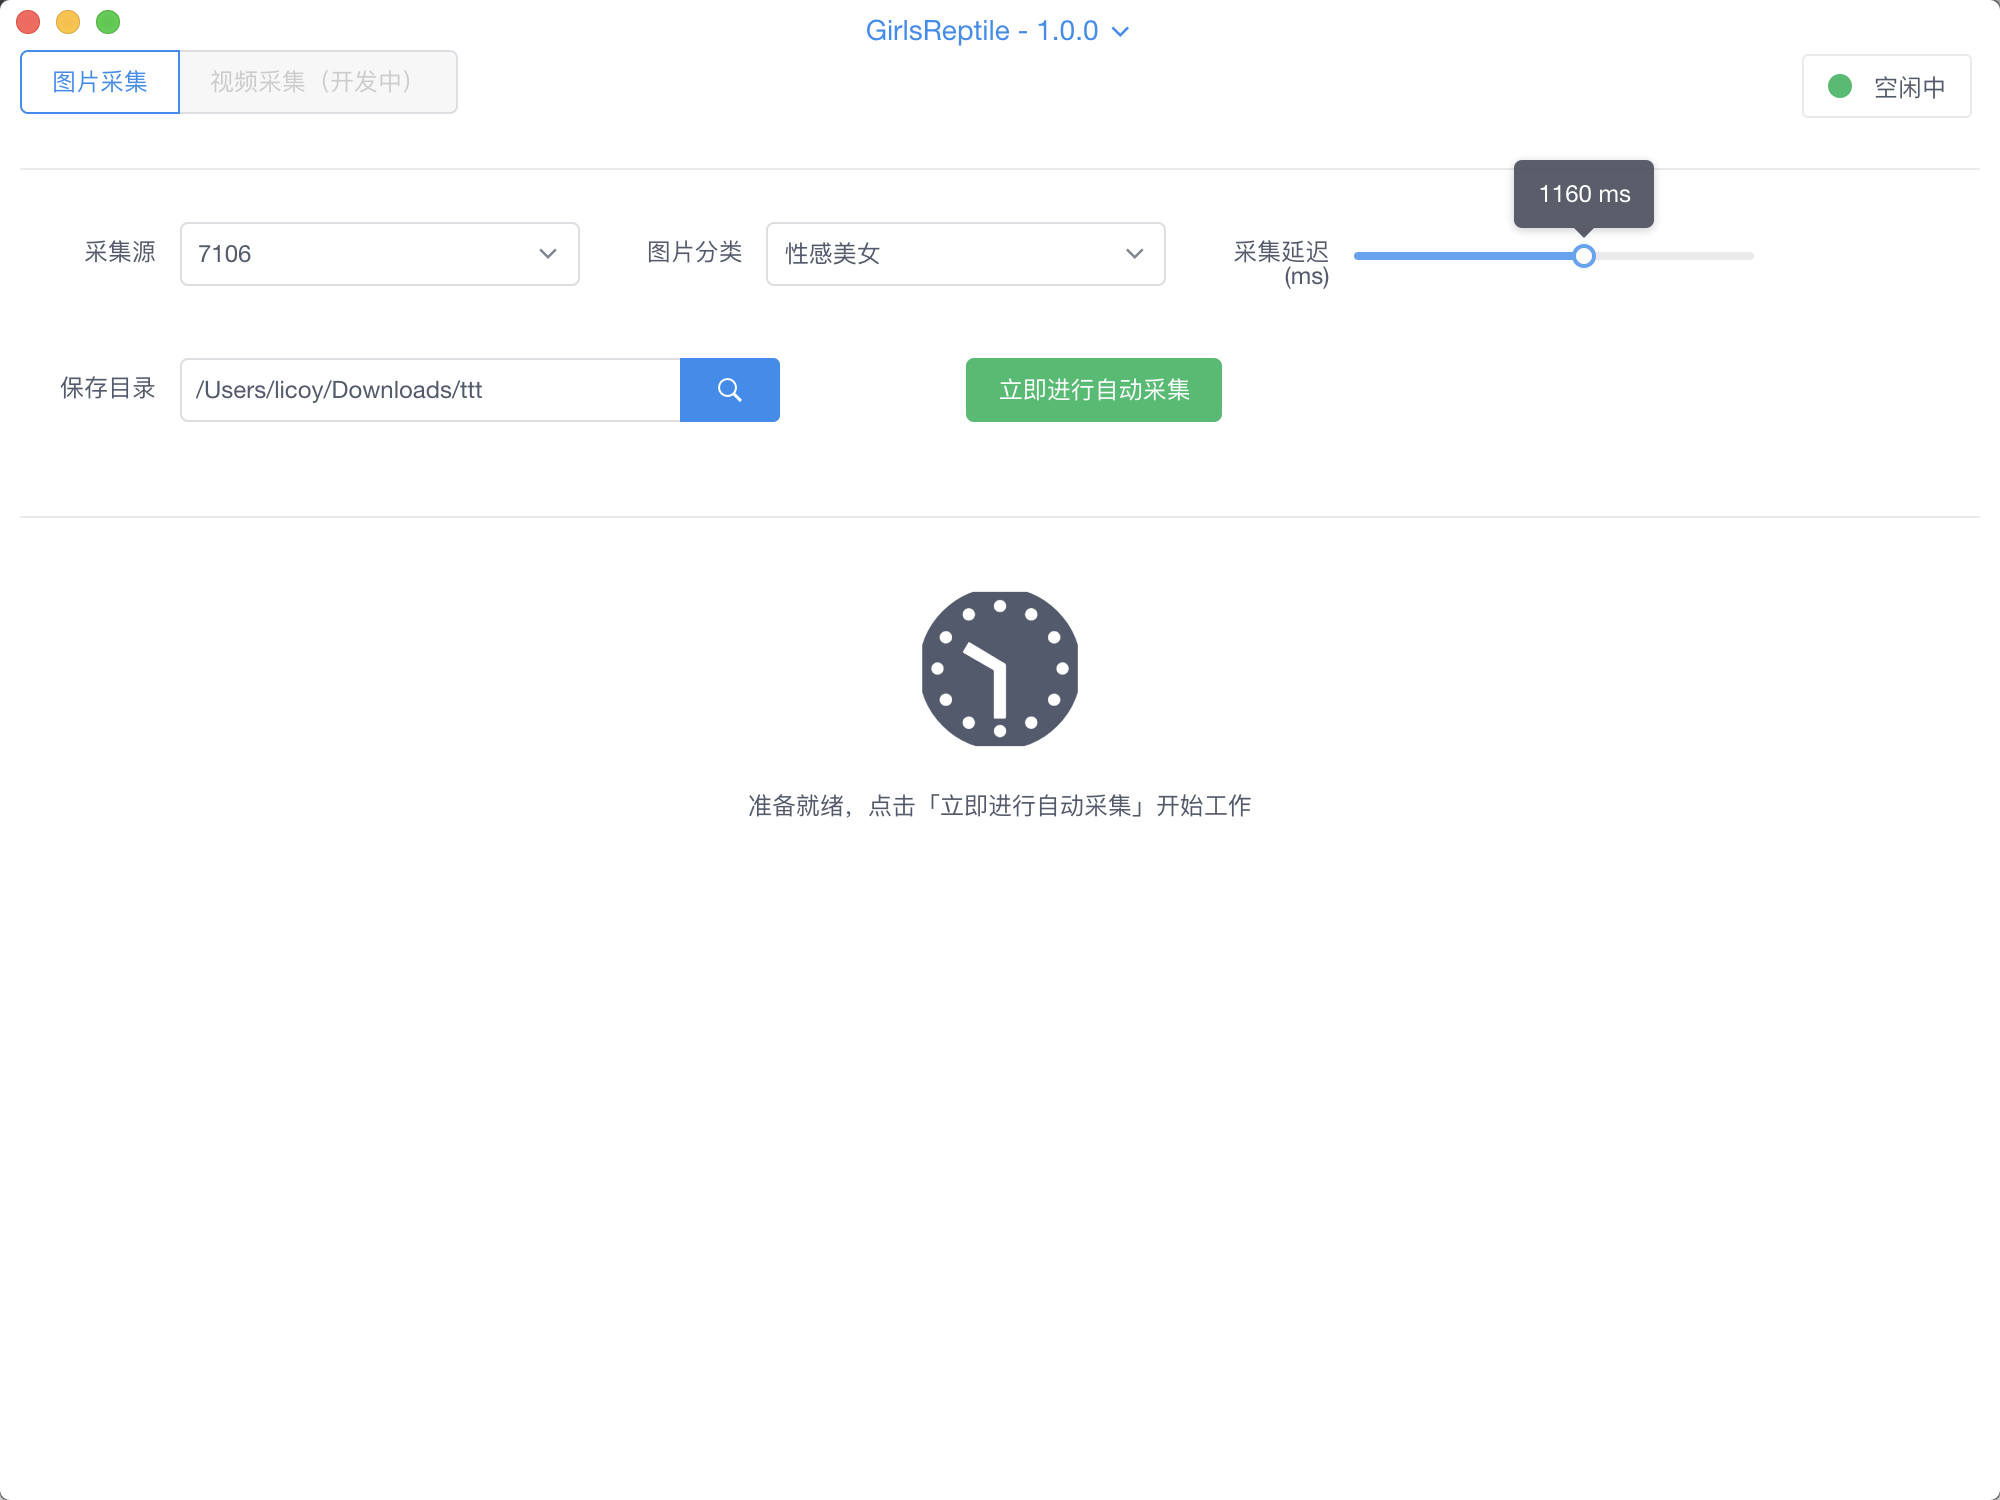
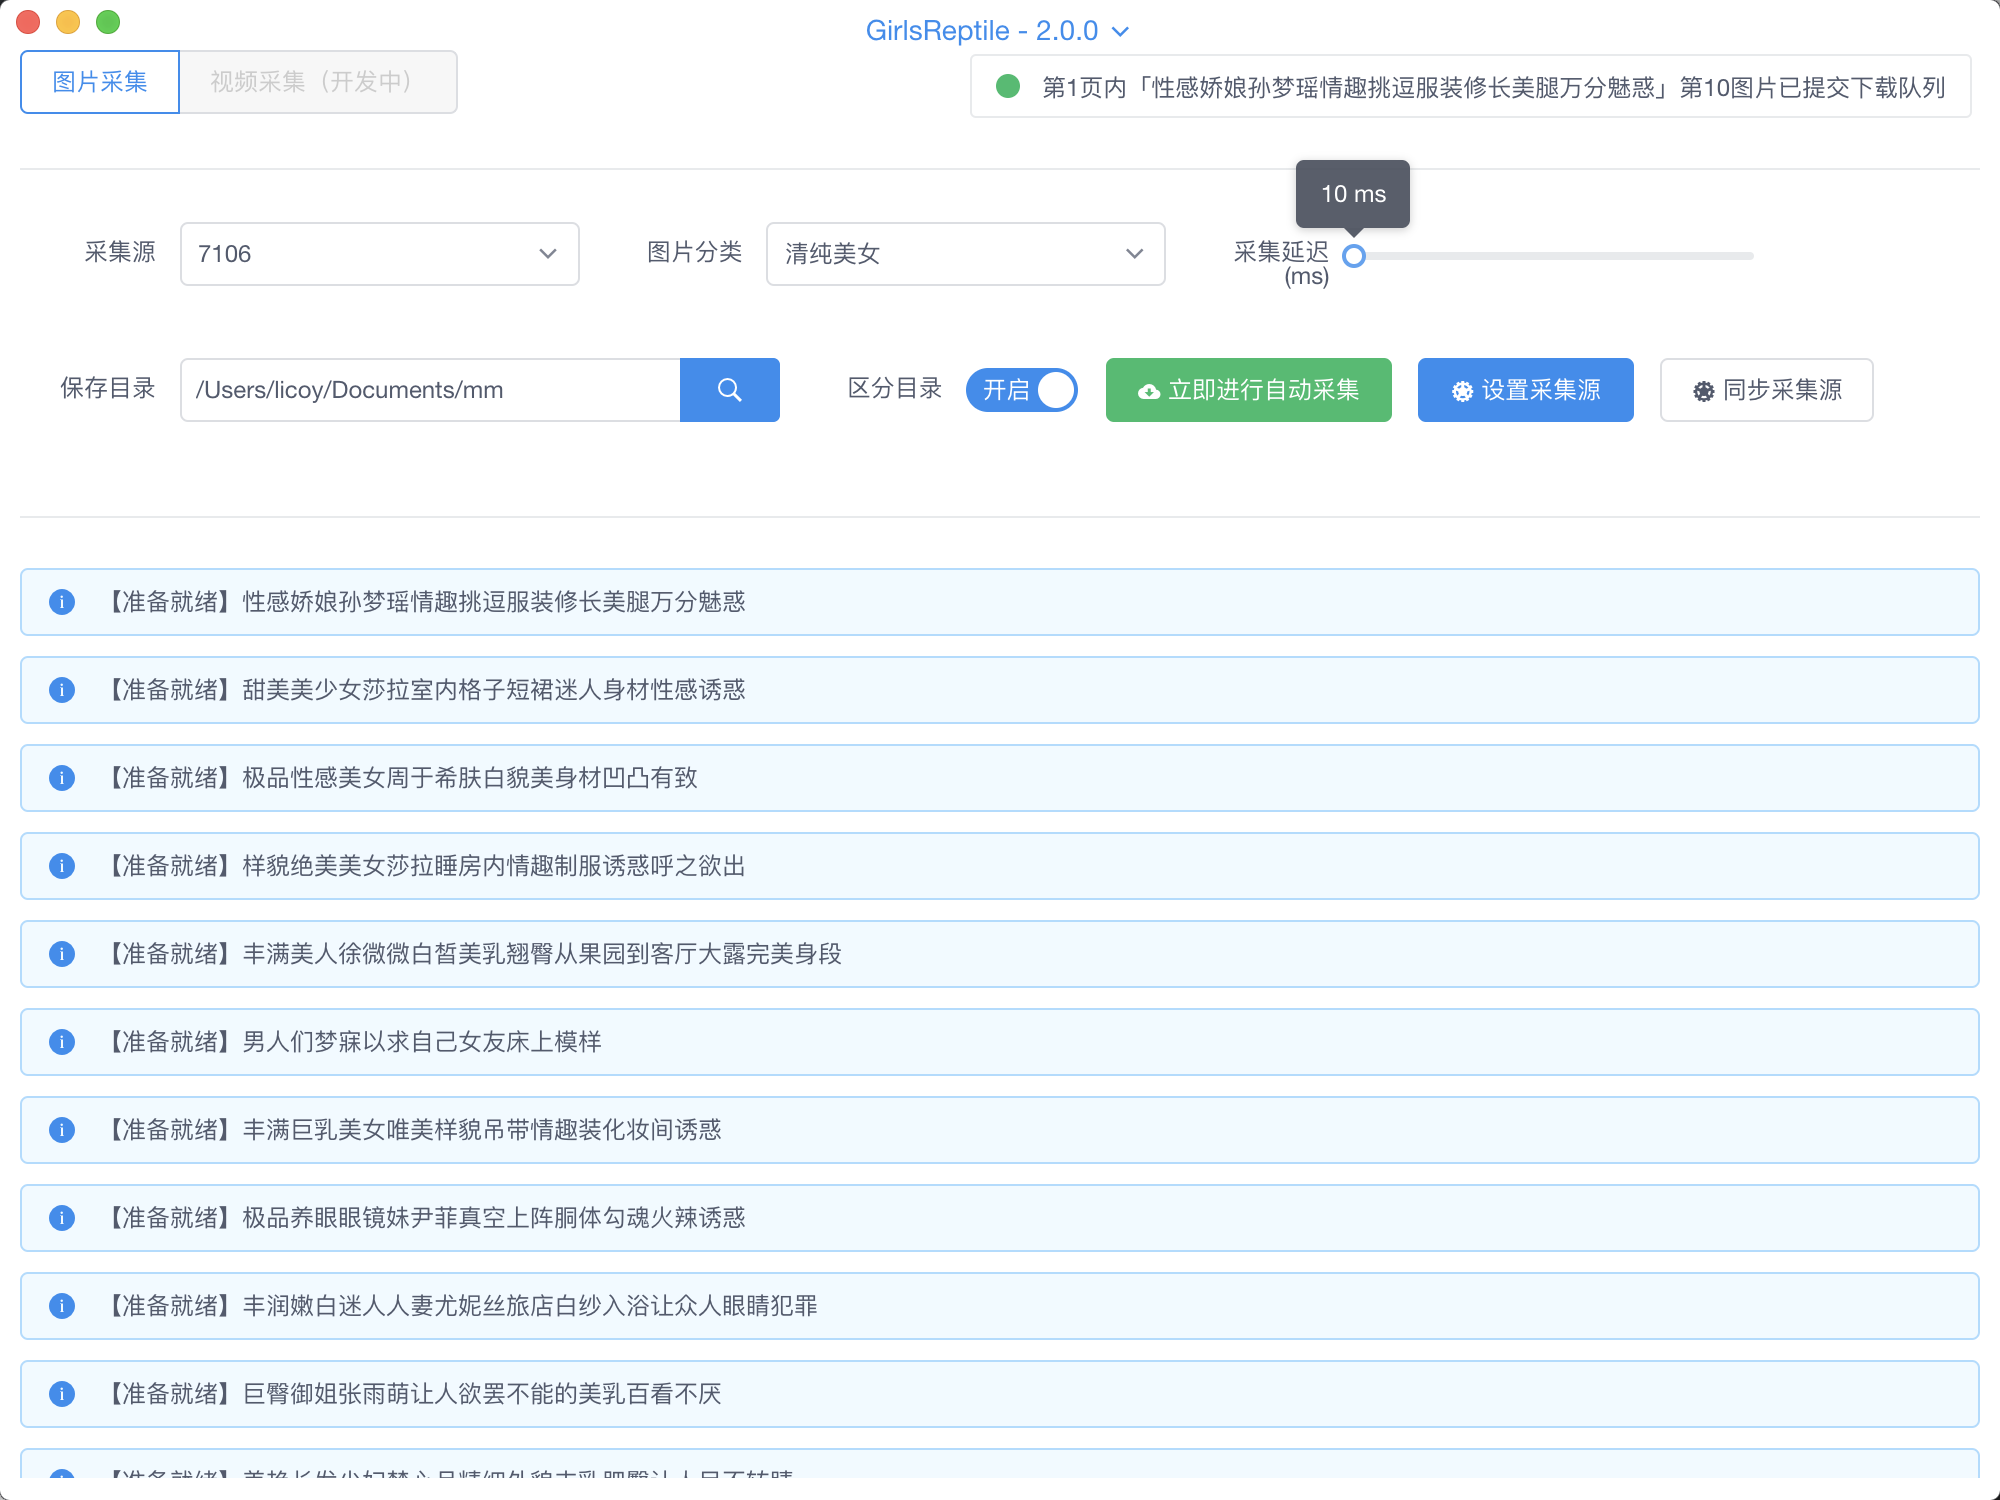
:pencil: 更新至2.0的说明

diff --git a/README_EN.md b/README_EN.md
@@ -2,7 +2,7 @@
 <div align="center">
     <img src="https://github.com/Licoy/girls-reptile/blob/master/build/icons/256x256.png?raw=true" alt="">
     <h1>GirlsReptile</h1>
-    <p>Beautiful girl picture collector based on electron-vue development</p>
+    <p>Based on electron-vue development, the Mito searcher supports custom acquisition source station configuration and is compatible with MacOS and Windows operating systems.</p>
       <a href="https://travis-ci.org/Licoy/girls-reptile/builds">
         <img src="https://img.shields.io/travis/Licoy/girls-reptile?style=flat-square" alt="">
       </a>
@@ -27,17 +27,19 @@
 </div>
 
 ## Application introduction
-GirlsReptile is a beautiful girl picture collector based on electron-vue
+GirlsReptile is based on electron-vue developed Mito searcher, supports custom acquisition source station configuration, compatible with MacOS and Windows operating system
 ## Download and install
 You can download and install here by [clicking here](https://github.com/Licoy/girls-reptile/releases), support Mac/Windows/Linux (not tested)
 ## Development toss
 - [《关于在travis-ci以及appveyor条件构建遇到的坑》](https://www.licoy.cn/3385.html)
-## Acquisition source station
-- [7106图片大全](https://www.7160.com)
+## Officially adapted source station
+- [全图网](http://www.quantuwang.co/)
 - [美图录](https://www.meitulu.com)
-- [居然搞笑网](https://www.zbjuran.net)
-- [Do you have a better URL? Click me to submit to support the adaptation](https://github.com/Licoy/girls-reptile/issues/new)
-## Use screenshots (V1.0.0 version, please refer to the latest version)
+- [7106图片大全](https://www.7160.com/)
+## Acquisition instructions
+- [Do you have a better URL? Click me to submit with official support](https://github.com/Licoy/girls-reptile/issues/new)
+- [Can't I meet my needs, can I write my own collection source? Of course, point me to view the document.](https://github.com/Licoy/girls-reptile/wiki/reptile-source-rules)
+## Use screenshots (V2.0.0 version, please refer to the latest version)
 ### Mac
 ![mac](./docs/image/mac-1.png)
 ![mac](./docs/image/mac-2.png)

diff --git a/README.md b/README.md
@@ -2,7 +2,7 @@
 <div align="center">
     <img src="https://github.com/Licoy/girls-reptile/blob/master/build/icons/256x256.png?raw=true" alt="">
     <h1>GirlsReptile</h1>
-    <p>基于electron-vue开发的美图搜罗器</p>
+    <p>基于electron-vue开发的美图搜罗器，支持自定义采集源站配置，兼容MacOS与Windows操作系统</p>
       <a href="https://travis-ci.org/Licoy/girls-reptile/builds">
         <img src="https://img.shields.io/travis/Licoy/girls-reptile?style=flat-square" alt="">
       </a>
@@ -27,17 +27,19 @@
 </div>
 
 ## 应用介绍
-GirlsReptile是基于electron-vue开发的美图搜罗器
+GirlsReptile是基于electron-vue开发的美图搜罗器，支持自定义采集源站配置，兼容MacOS与Windows操作系统
 ## 下载安装
 您可以[点击此处](https://github.com/Licoy/girls-reptile/releases)进行下载安装，支持Mac/Windows/Linux(未测试)
 ## 开发折腾
 - [《关于在travis-ci以及appveyor条件构建遇到的坑》](https://www.licoy.cn/3385.html)
-## 采集源站
-- [7106图片大全](https://www.7160.com)
+## 官方已适配采集源站
+- [全图网](http://www.quantuwang.co/)
 - [美图录](https://www.meitulu.com)
-- [居然搞笑网](https://www.zbjuran.net)
-- [你有更好的网址？点我提交以支持适配](https://github.com/Licoy/girls-reptile/issues/new)
-## 使用截图（V1.0.0版本，请以最新版本为准）
+- [7106图片大全](https://www.7160.com/)
+## 采集说明
+- [你有更好的网址？点我提交以官方支持适配](https://github.com/Licoy/girls-reptile/issues/new)
+- [不满足我的需求，我可以自己写采集源吗？当然可以，点我查看文档](https://github.com/Licoy/girls-reptile/wiki/reptile-source-rules)
+## 使用截图（V2.0.0版本，请以最新版本为准）
 ### Mac
 ![mac](./docs/image/mac-1.png)
 ![mac](./docs/image/mac-2.png)
